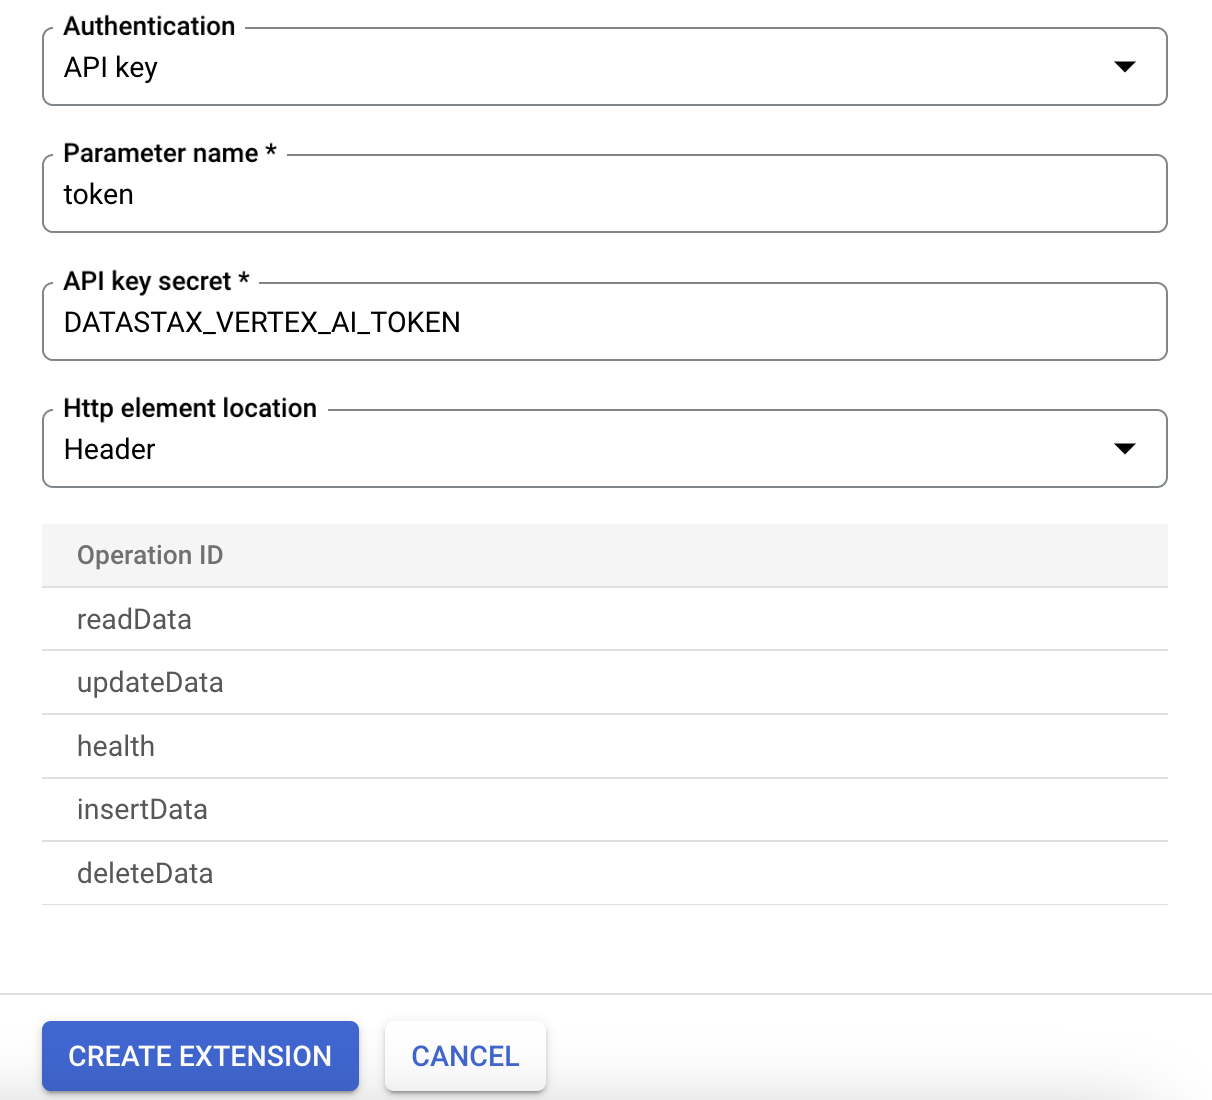
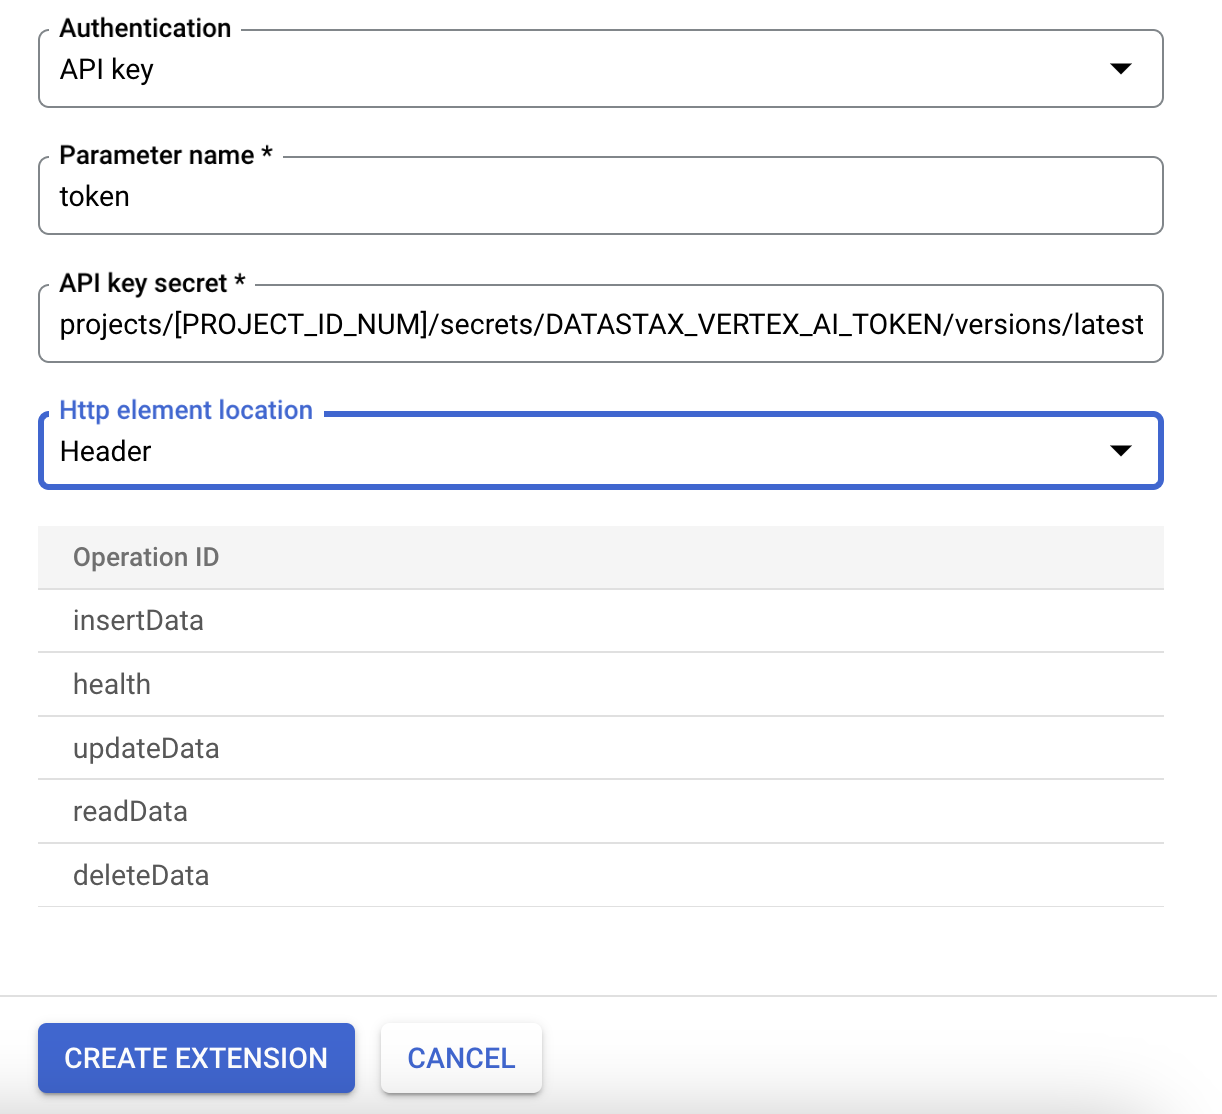
Specify the API key secret properly

diff --git a/README.md b/README.md
@@ -40,7 +40,7 @@ The steps on this page assume the following:
 
 1. Browse to the <a href="https://console.cloud.google.com/vertex-ai/extensions" target="_blank">Vertex AI Extensions Page</a>
 2. Click `Create Extension`
-3. Fill in the fields of the form, choosing `extension.yaml` from the `astra-crud-extension-api` as your OpenAPI spec. See screenshots for example values.
+3. Fill in the fields of the form, choosing `extension.yaml` from the `astra-crud-extension-api` as your OpenAPI spec. See screenshots for example values. Note that you **must specify the API key secret field in the following format: `projects/[PROJECT_ID_NUM]/secrets/DATASTAX_VERTEX_AI_TOKEN/versions/latest`** you can find the value for `PROJECT_ID_NUM` on the landing page of GCP for your project.
 
 ![Example of Registering Astra Extension](images/vertexai1.png)
 ![Example of Registering Astra Extension](images/vertexai2.png)
